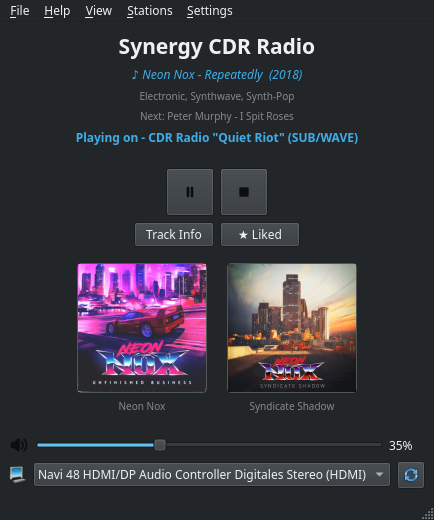
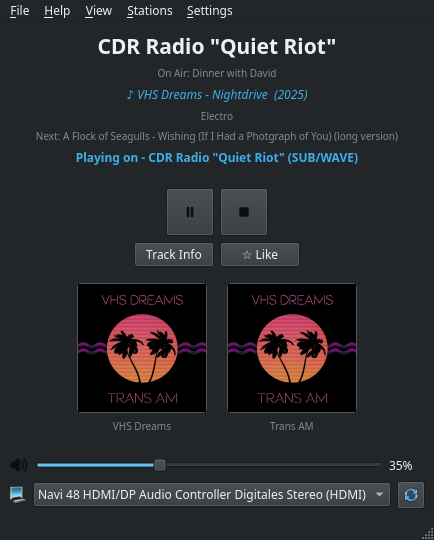
Show the on-air show name for SUB/WAVE stations
GET /now-playing's top-level activeShow.name identifies a scheduled
show when one is running (empty during unscheduled auto-DJ time), shown
as "On Air: <show>" under the station name.

diff --git a/radiotop_gui.py b/radiotop_gui.py
@@ -1856,6 +1856,12 @@ class MainWindow(QMainWindow):
         self.name_label.setAlignment(Qt.AlignmentFlag.AlignCenter)
         root.addWidget(self.name_label)
 
+        self.show_label = QLabel("")
+        self.show_label.setWordWrap(True)
+        self.show_label.setAlignment(Qt.AlignmentFlag.AlignCenter)
+        self.show_label.setStyleSheet("color: #888888; font-size: 10px;")
+        root.addWidget(self.show_label)
+
         self.track_label = QLabel("")
         self.track_label.setWordWrap(True)
         self.track_label.setAlignment(Qt.AlignmentFlag.AlignCenter)
@@ -2183,6 +2189,7 @@ class MainWindow(QMainWindow):
         self._subwave_detected = False
         self.subwave_detail_label.setText("")
         self.next_track_label.setText("")
+        self.show_label.setText("")
         self.like_btn.setEnabled(False)
         self.like_btn.setText("☆ Like")
         self.subwave_api_base = _subwave_api_base(url)
@@ -2230,6 +2237,7 @@ class MainWindow(QMainWindow):
         self._subwave_detected = False
         self.subwave_detail_label.setText("")
         self.next_track_label.setText("")
+        self.show_label.setText("")
         self.like_btn.setEnabled(False)
         self.like_btn.setText("☆ Like")
 
@@ -2239,7 +2247,11 @@ class MainWindow(QMainWindow):
         self._subwave_detected = True
         self._update_status()
 
-        now = (payload.get("now_playing") or {}).get("nowPlaying") or {}
+        now_response = payload.get("now_playing") or {}
+        active_show = now_response.get("activeShow") or {}
+        self.show_label.setText(f"On Air: {active_show['name']}" if active_show.get("name") else "")
+
+        now = now_response.get("nowPlaying") or {}
         artist = (now.get("artist") or "").strip()
         title = (now.get("title") or "").strip()
         if artist and title:
@@ -2941,6 +2953,7 @@ class MainWindow(QMainWindow):
         self._subwave_detected = False
         self.subwave_detail_label.setText("")
         self.next_track_label.setText("")
+        self.show_label.setText("")
         self.like_btn.setEnabled(False)
         self.like_btn.setText("☆ Like")
         self._stop_lookup_thread()
